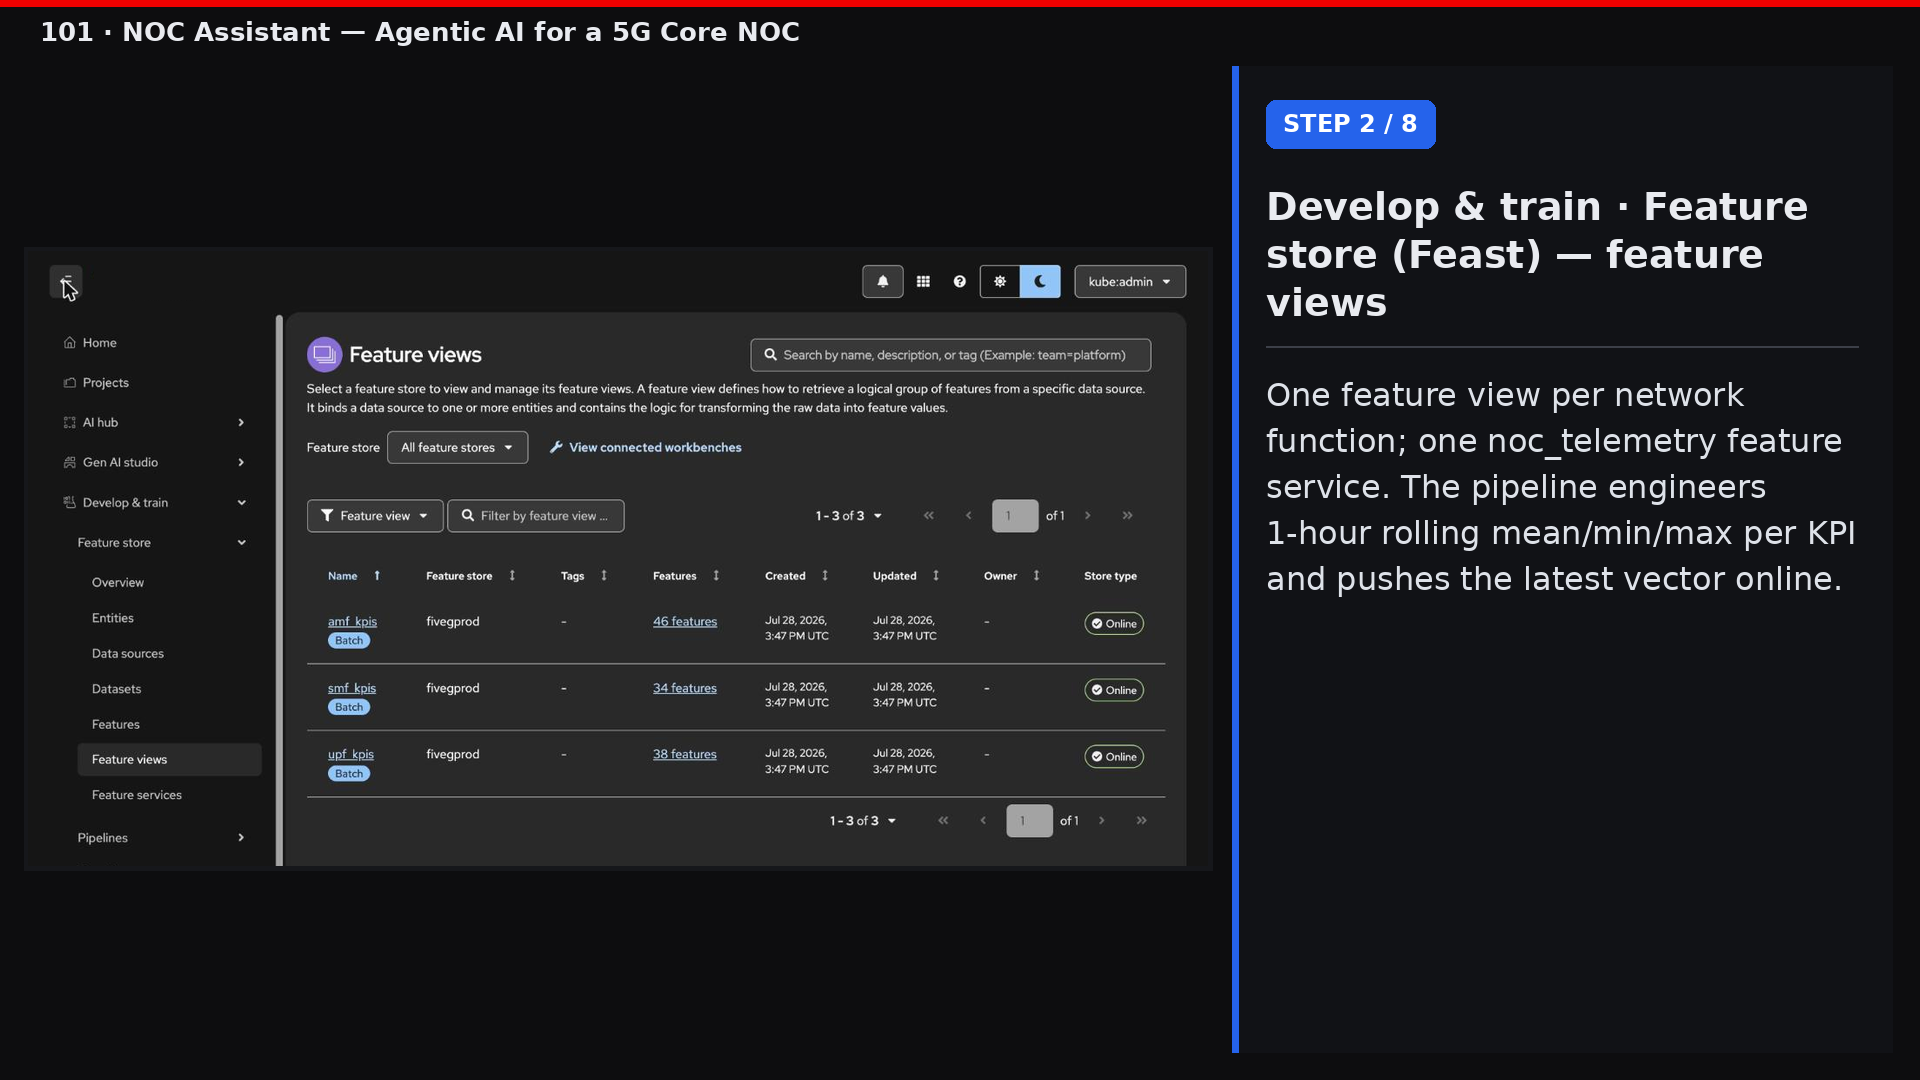
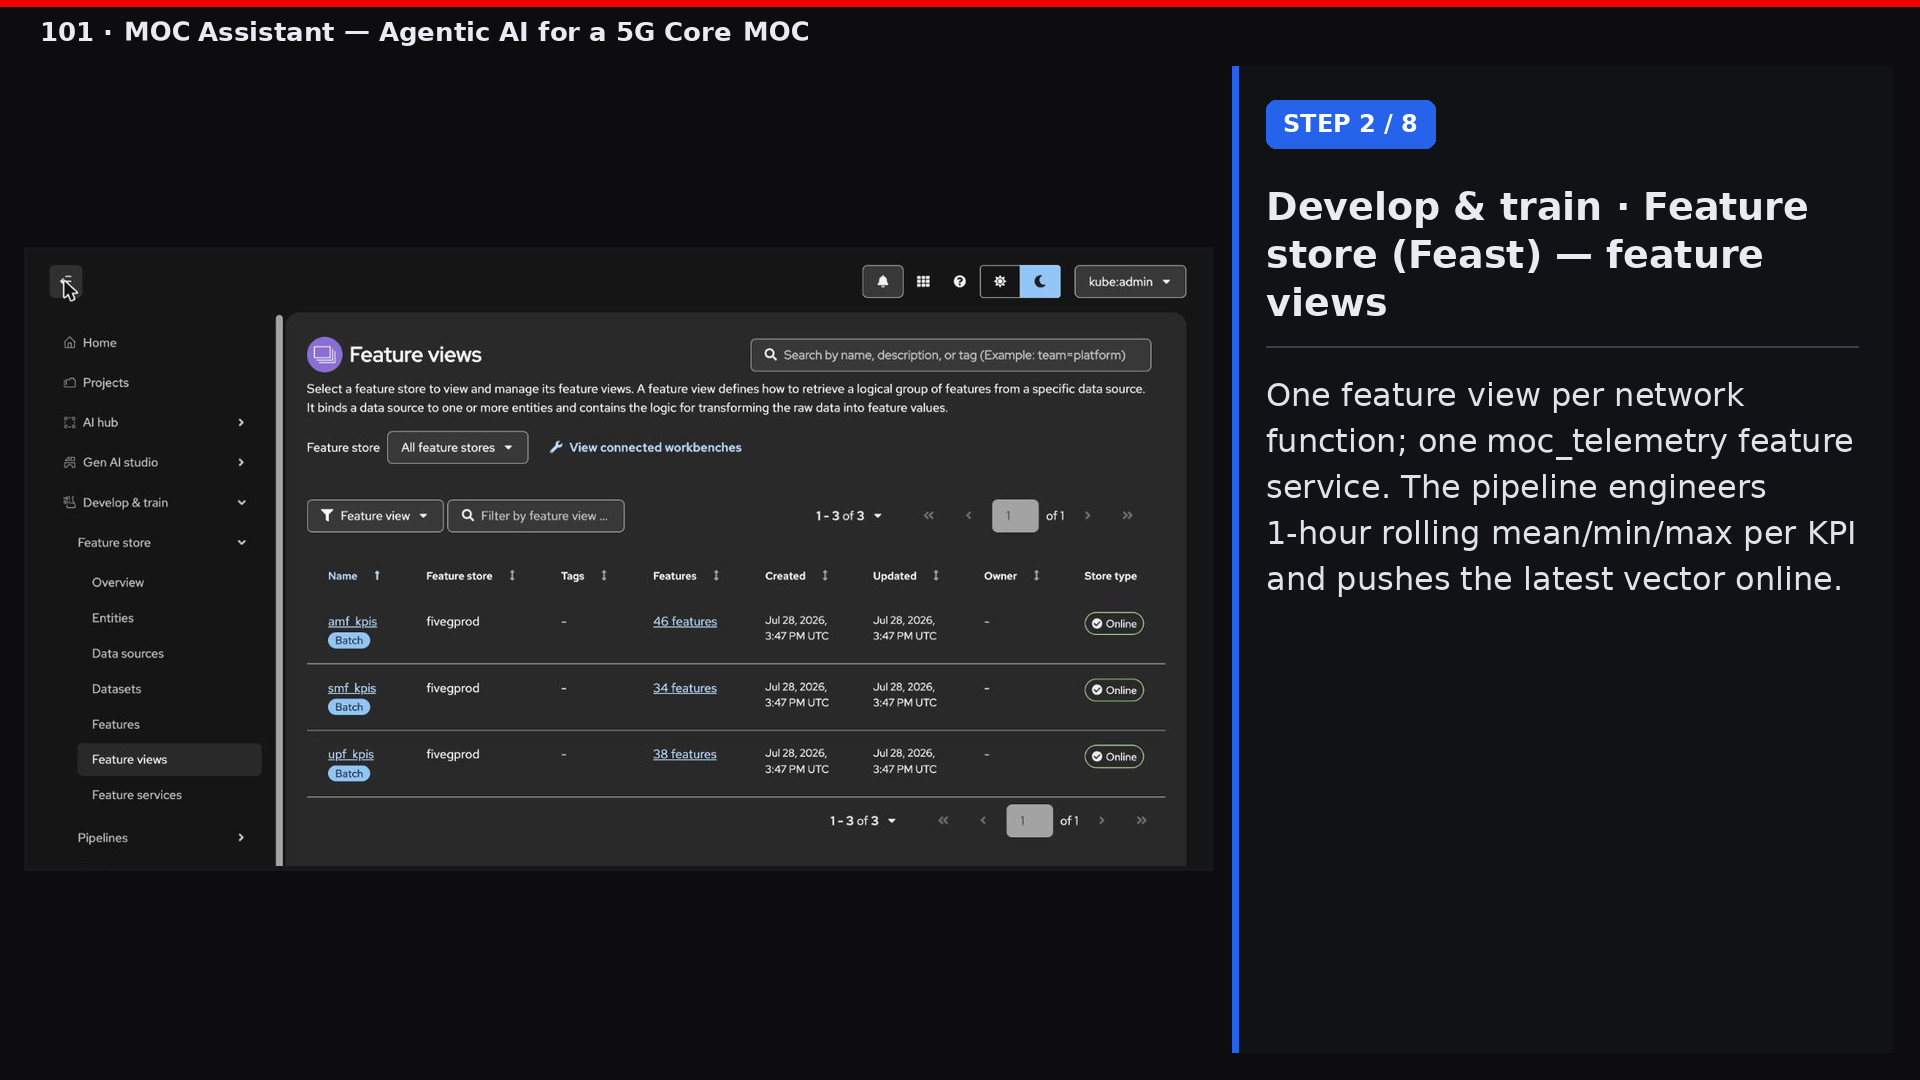
Course 101: NOC -> MOC in README, images and code identifiers
- README: "NOC" wording is now "MOC" (title, MOC Assistant, MOC questions).
- Rename agent/noc_agent.py -> agent/moc_agent.py and every reference
  (Containerfile CMD, READMEs, MANUAL, QA notes, CLAUDE.md, 201 comment).
- Feast feature service noc_telemetry -> moc_telemetry.
- MCP servers noc-telemetry / noc-runbooks -> moc-telemetry / moc-runbooks
  (FastMCP names and the OpenClaw track config/tool names).
- Images: architecture diagram labels re-rendered from SVG; walkthrough
  poster title and caption, and the model-overview registry description,
  now read MOC.
- Regenerate the 101 portal tape from the updated MANUAL.

Unchanged on purpose: the portal's captured feature-service table
(docs/portal/index.html) and recorded tapes, plus Kubernetes resource
names (noc-assistant, noc-ask, noc-sweep) that the README does not show.

Changed region(s): [[0.0625, 0.0, 0.4062, 0.0611], [0.7812, 0.3972, 0.9688, 0.4278]]

diff --git a/201-rca-investigator/agent/rca_agent.py b/201-rca-investigator/agent/rca_agent.py
@@ -196,7 +196,7 @@ def run_offline(question: str) -> str:
 def _enable_mlflow() -> None:
     """Optional: mirror agent traces to MLflow (RHOAI 3.x Experiments tab).
 
-    Same shim as course 101 (see noc_agent.py:_enable_mlflow): RHOAI's
+    Same shim as course 101 (see moc_agent.py:_enable_mlflow): RHOAI's
     managed MLflow is workspace-scoped, so with MLFLOW_WORKSPACE set every
     request carries the X-MLFLOW-WORKSPACE header plus a Bearer token from
     MLFLOW_TRACKING_TOKEN or the pod ServiceAccount. Never breaks the loop.

diff --git a/101-moc-assistant/tools/lib.py b/101-moc-assistant/tools/lib.py
@@ -6,7 +6,7 @@ detection uses Isolation Forest, the same algorithm the source experiment
 uses, so the agent's tools behave like the original NOC pipeline.
 
 These functions are the single source of truth for what the agent can do.
-They are exposed two ways: in-process (agent/noc_agent.py registers them as
+They are exposed two ways: in-process (agent/moc_agent.py registers them as
 tool-call handlers) and as MCP servers (telemetry_mcp.py, runbook_mcp.py).
 """
 

diff --git a/101-moc-assistant/feature_repo/features.py b/101-moc-assistant/feature_repo/features.py
@@ -73,7 +73,7 @@ smf_kpis = _view("smf", NF_KPIS["smf"])
 upf_kpis = _view("upf", NF_KPIS["upf"])
 
 # What the NOC agent consumes: everything, one service.
-noc_telemetry = FeatureService(
-    name="noc_telemetry",
+moc_telemetry = FeatureService(
+    name="moc_telemetry",
     features=[amf_kpis, smf_kpis, upf_kpis],
 )

diff --git a/101-moc-assistant/tools/telemetry_mcp.py b/101-moc-assistant/tools/telemetry_mcp.py
@@ -13,7 +13,7 @@ from fastmcp import FastMCP  # noqa: E402
 
 from tools import lib  # noqa: E402
 
-mcp = FastMCP("noc-telemetry")
+mcp = FastMCP("moc-telemetry")
 
 
 @mcp.tool()

diff --git a/101-moc-assistant/tools/runbook_mcp.py b/101-moc-assistant/tools/runbook_mcp.py
@@ -9,7 +9,7 @@ from fastmcp import FastMCP  # noqa: E402
 
 from tools import lib  # noqa: E402
 
-mcp = FastMCP("noc-runbooks")
+mcp = FastMCP("moc-runbooks")
 
 
 @mcp.tool()

diff --git a/101-moc-assistant/README.md b/101-moc-assistant/README.md
@@ -1,13 +1,13 @@
-# 101 · NOC Assistant
+# 101 · MOC Assistant
 
 > **QA status:** offline mode, MCP servers, mock loop, and two live runs
 > against the AI platform's Model-as-a-Service (LiteLLM gateway,
 > Qwen3.6-35B-A3B) all pass. Full evidence, including wire-level MaaS
 > request/response captures, lives in [QA/](./QA/).
 
-A single agent that answers NOC questions about a 5G core: it inspects telemetry, detects anomalies, and consults runbooks before answering. The "hello world" of agentic telco AI, except it already does real work.
+A single agent that answers MOC questions about a 5G core: it inspects telemetry, detects anomalies, and consults runbooks before answering. The "hello world" of agentic telco AI, except it already does real work.
 
-**Source experiments:** [houprod](https://github.com/open-experiments/Telco-AIX/tree/main/5gprod) (telemetry + NOC workflow), [telco-sme](https://github.com/open-experiments/Telco-AIX/tree/main/telco-sme) (domain knowledge access).
+**Source experiments:** [houprod](https://github.com/open-experiments/Telco-AIX/tree/main/5gprod) (telemetry + MOC workflow), [telco-sme](https://github.com/open-experiments/Telco-AIX/tree/main/telco-sme) (domain knowledge access).
 
 ## What it teaches
 
@@ -23,11 +23,11 @@ A narrated walkthrough (6:29) — the problem, then the step-by-step agentic
 solution over the live AI platform portal on our reference cluster called Venice.
 Click the poster to play or download:
 
-[![101 · NOC Assistant — narrated walkthrough](./images/walkthrough-poster.png)](./images/101-moc-assistant.mp4)
+[![101 · MOC Assistant — narrated walkthrough](./images/walkthrough-poster.png)](./images/101-moc-assistant.mp4)
 
 ## Architecture
 
-![101 NOC Assistant architecture](./images/architecture.png)
+![101 MOC Assistant architecture](./images/architecture.png)
 
 Read the drawing as three zones, because that is the packaging decision the
 whole blueprint turns on:
@@ -57,7 +57,7 @@ from the Rome cluster, not mockups.
 [fenar/5gcore-prod](https://huggingface.co/datasets/fenar/5gcore-prod),
 engineers 1-hour rolling mean/min/max per KPI, lands the offline parquet,
 and pushes the latest vector per NF online. One feature view per NF, one
-`noc_telemetry` feature service:
+`moc_telemetry` feature service:
 
 ![Feature views on the AI platform](./images/rhoai/feature-views.png)
 
@@ -136,7 +136,7 @@ pattern, dashboard labels) are in
 
 | Blueprint component | Here |
 |---------------------|------|
-| Harness | `agent/noc_agent.py` custom tool-calling loop (any OpenAI-compatible endpoint) |
+| Harness | `agent/moc_agent.py` custom tool-calling loop (any OpenAI-compatible endpoint) |
 | Model | your endpoint via `LLM_BASE_URL` (vLLM / AI platform MaaS) |
 | Skills (thin clients) | `tools/lib.py` functions (Feast online client or CSVs, alert feed, runbooks) |
 | Skill exposure | `tools/telemetry_mcp.py`, `tools/runbook_mcp.py` (MCP servers) |
@@ -154,11 +154,11 @@ language model reasons over both before answering.
 pip install -r requirements.txt
 
 # Offline first: scripted episode over the real dataset, no endpoint needed
-python agent/noc_agent.py --offline "What is wrong in the core right now?"
+python agent/moc_agent.py --offline "What is wrong in the core right now?"
 
 # Live: against any OpenAI-compatible endpoint
 cp .env.example .env                      # set LLM_BASE_URL, LLM_API_KEY, LLM_MODEL
-python agent/noc_agent.py "What is wrong in the core right now?"
+python agent/moc_agent.py "What is wrong in the core right now?"
 ```
 
 To run the tools as standalone MCP servers (for MCP-native harnesses or a gateway in front):

diff --git a/101-moc-assistant/harness-tracks/openclaw.md b/101-moc-assistant/harness-tracks/openclaw.md
@@ -3,7 +3,7 @@
 Run the same NOC Assistant on [OpenClaw](https://github.com/openclaw/openclaw),
 the always-on personal agent harness. No agent code is written here; that is
 the lesson. The skills you already have as MCP servers plug into OpenClaw's
-config, and its own loop takes over what `agent/noc_agent.py` demonstrated.
+config, and its own loop takes over what `agent/moc_agent.py` demonstrated.
 
 Config keys below are from the official OpenClaw docs
 ([gateway/config-tools](https://docs.openclaw.ai/gateway/config-tools)).
@@ -42,11 +42,11 @@ vLLM on RHOAI (or any OpenAI-compatible endpoint) is a custom provider with
 {
   mcp: {
     servers: {
-      "noc-telemetry": {
+      "moc-telemetry": {
         command: "python3",
         args: ["<repo-path>/101-moc-assistant/tools/telemetry_mcp.py"],
       },
-      "noc-runbooks": {
+      "moc-runbooks": {
         command: "python3",
         args: ["<repo-path>/101-moc-assistant/tools/runbook_mcp.py"],
       },
@@ -55,8 +55,8 @@ vLLM on RHOAI (or any OpenAI-compatible endpoint) is a custom provider with
 }
 ```
 
-OpenClaw exposes these as plugin-owned tools (`noc-telemetry__get_kpi_summary`,
-`noc-telemetry__detect_anomalies`, `noc-runbooks__search_runbooks`, ...).
+OpenClaw exposes these as plugin-owned tools (`moc-telemetry__get_kpi_summary`,
+`moc-telemetry__detect_anomalies`, `moc-runbooks__search_runbooks`, ...).
 
 ## 3. If you run OpenClaw sandboxed, allow the MCP tools through
 
@@ -107,7 +107,7 @@ change.)
         target: "last",          // or an explicit channel, e.g. "telegram"
         isolatedSession: true,   // fresh session per tick: cheap, and 12-Factor clean
         lightContext: true,      // only HEARTBEAT.md from workspace bootstrap
-        prompt: "Run noc-telemetry__get_active_alerts and noc-telemetry__detect_anomalies. If there is a CRITICAL alert or a new anomaly cluster, send a short NOC alert naming the NF, the deviating KPIs, and the matching runbook. Otherwise reply HEARTBEAT_OK.",
+        prompt: "Run moc-telemetry__get_active_alerts and moc-telemetry__detect_anomalies. If there is a CRITICAL alert or a new anomaly cluster, send a short NOC alert naming the NF, the deviating KPIs, and the matching runbook. Otherwise reply HEARTBEAT_OK.",
       },
     },
   },

diff --git a/101-moc-assistant/MANUAL.md b/101-moc-assistant/MANUAL.md
@@ -60,9 +60,9 @@ Fresh network data rides the **same** harvest path — that is the entire argume
 
 ```mermaid
 flowchart LR
-  NET2["5G core telemetry<br/>(same harvest path)"] --> ON["Feast online store<br/>latest vector per NF<br/>feature service: noc_telemetry"]
+  NET2["5G core telemetry<br/>(same harvest path)"] --> ON["Feast online store<br/>latest vector per NF<br/>feature service: moc_telemetry"]
   subgraph POD["Agent pod (Job / noc-sweep CronJob, CPU-only)"]
-    LOOP["custom tool-calling loop<br/>agent/noc_agent.py"]
+    LOOP["custom tool-calling loop<br/>agent/moc_agent.py"]
     T1["get_kpi_summary"] & T2["detect_anomalies<br/>(loads registry model)"] & T3["check_alerts"] --> LOOP
     RB["runbook MCP<br/>tools/runbook_mcp.py"] --> LOOP
   end
@@ -96,7 +96,7 @@ flowchart LR
 |---|---|---|
 | Harvest | OTel exporters → Collector → Prometheus | **stand-in:** published houprod dataset in [`data/`](./data/) |
 | Feature engineering | scheduled pipeline job | `feast-bootstrap` Job → [`feature_repo/ingest.py`](./feature_repo/ingest.py) |
-| Feature store | Feast offline (parquet, PVC) + online (latest vectors) | FeatureStore CR `fivegprod`, feature service `noc_telemetry` |
+| Feature store | Feast offline (parquet, PVC) + online (latest vectors) | FeatureStore CR `fivegprod`, feature service `moc_telemetry` |
 | Training | IsolationForest per NF + Ray sweep | [`training/train_anomaly.py`](./training/train_anomaly.py), [`training/ray_contamination_sweep.py`](./training/ray_contamination_sweep.py) |
 | Tracking / registry | MLflow Experiments → Model Registry | experiments `houprod-anomaly-sweep`, registered model `houprod-anomaly-isolationforest` |
 | Serving (model) | registry model loaded as a tool | `detect_anomalies` in [`tools/lib.py`](./tools/lib.py) |

diff --git a/101-moc-assistant/QA/README.md b/101-moc-assistant/QA/README.md
@@ -24,7 +24,7 @@ snippet at the bottom of this file.
 
 `*_maas_wire.jsonl` files contain every HTTP request and response between
 the agent and the model endpoint, one JSON record per line, captured by
-setting `LLM_WIRE_LOG` (see `agent/noc_agent.py:_make_client`). The
+setting `LLM_WIRE_LOG` (see `agent/moc_agent.py:_make_client`). The
 `Authorization` header is redacted; everything else is verbatim, including
 the tool schemas offered, the model's `tool_calls`, the tool results fed
 back, and token usage.
@@ -102,7 +102,7 @@ export LLM_BASE_URL=https://litellm-litemaas.apps.prod.rhoai.rh-aiservices-bu.co
 export LLM_API_KEY=sk-...           # from your MaaS key (starts with sk-)
 export LLM_MODEL=Qwen3.6-35B-A3B
 export LLM_WIRE_LOG=QA/my_wire.jsonl
-python3 agent/noc_agent.py "What is wrong in the 5G core right now?"
+python3 agent/moc_agent.py "What is wrong in the 5G core right now?"
 ```
 
 Deterministic mock-loop test (no endpoint, validates the loop plumbing):

diff --git a/CLAUDE.md b/CLAUDE.md
@@ -18,8 +18,8 @@ Each course is independent — install and run from inside its directory.
 ```bash
 # 101 / 201: offline deterministic episodes (no model endpoint needed)
 cd 101-moc-assistant && pip install -r requirements.txt
-python3 agent/noc_agent.py --offline "What is wrong in the core right now?"
-python3 agent/noc_agent.py "..."                     # live: needs LLM_BASE_URL/LLM_API_KEY/LLM_MODEL
+python3 agent/moc_agent.py --offline "What is wrong in the core right now?"
+python3 agent/moc_agent.py "..."                     # live: needs LLM_BASE_URL/LLM_API_KEY/LLM_MODEL
 
 cd 201-rca-investigator && python3 agent/rca_agent.py --offline
 uvicorn backend.rag_service:app --port 8201          # 201's RAG skill backend (pattern 2)

diff --git a/README.md b/README.md
@@ -14,7 +14,7 @@ Two commands to a working agent, no model endpoint needed:
 
 ```bash
 cd 101-moc-assistant && pip install -r requirements.txt
-python3 agent/noc_agent.py --offline "What is wrong in the core right now?"
+python3 agent/moc_agent.py --offline "What is wrong in the core right now?"
 ```
 
 That replays a scripted agent episode over the real 5G core dataset, printing every plan step, tool call, and observation. When it makes sense, point the same agent at any OpenAI-compatible endpoint (`cp .env.example .env`, fill in `LLM_BASE_URL`/`LLM_API_KEY`/`LLM_MODEL`; endpoint options in [shared/manifests/vllm-rhoai.md](./shared/manifests/vllm-rhoai.md)) and run it live.
